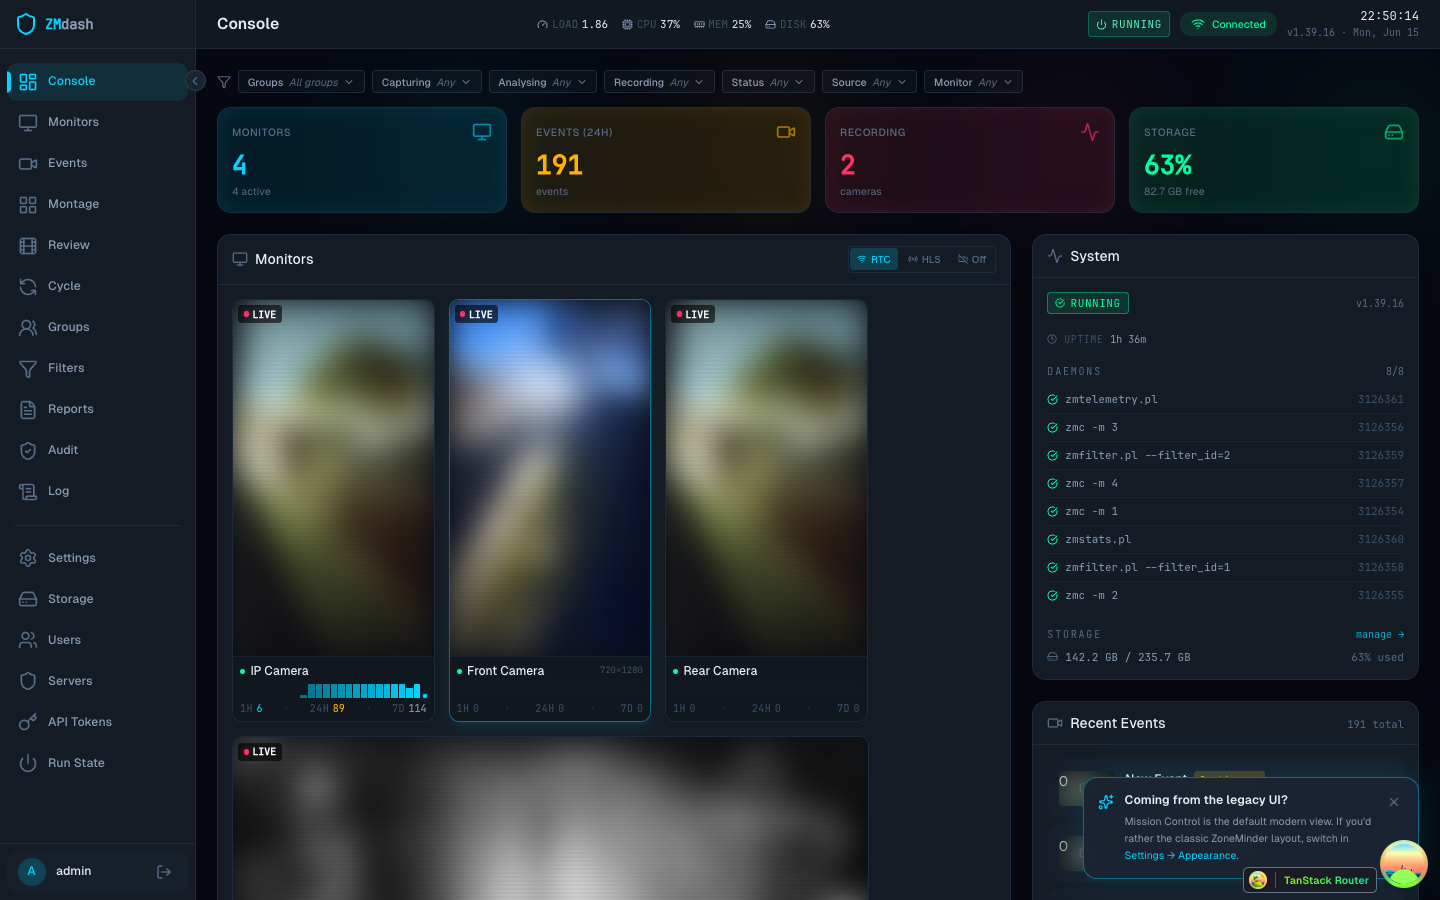
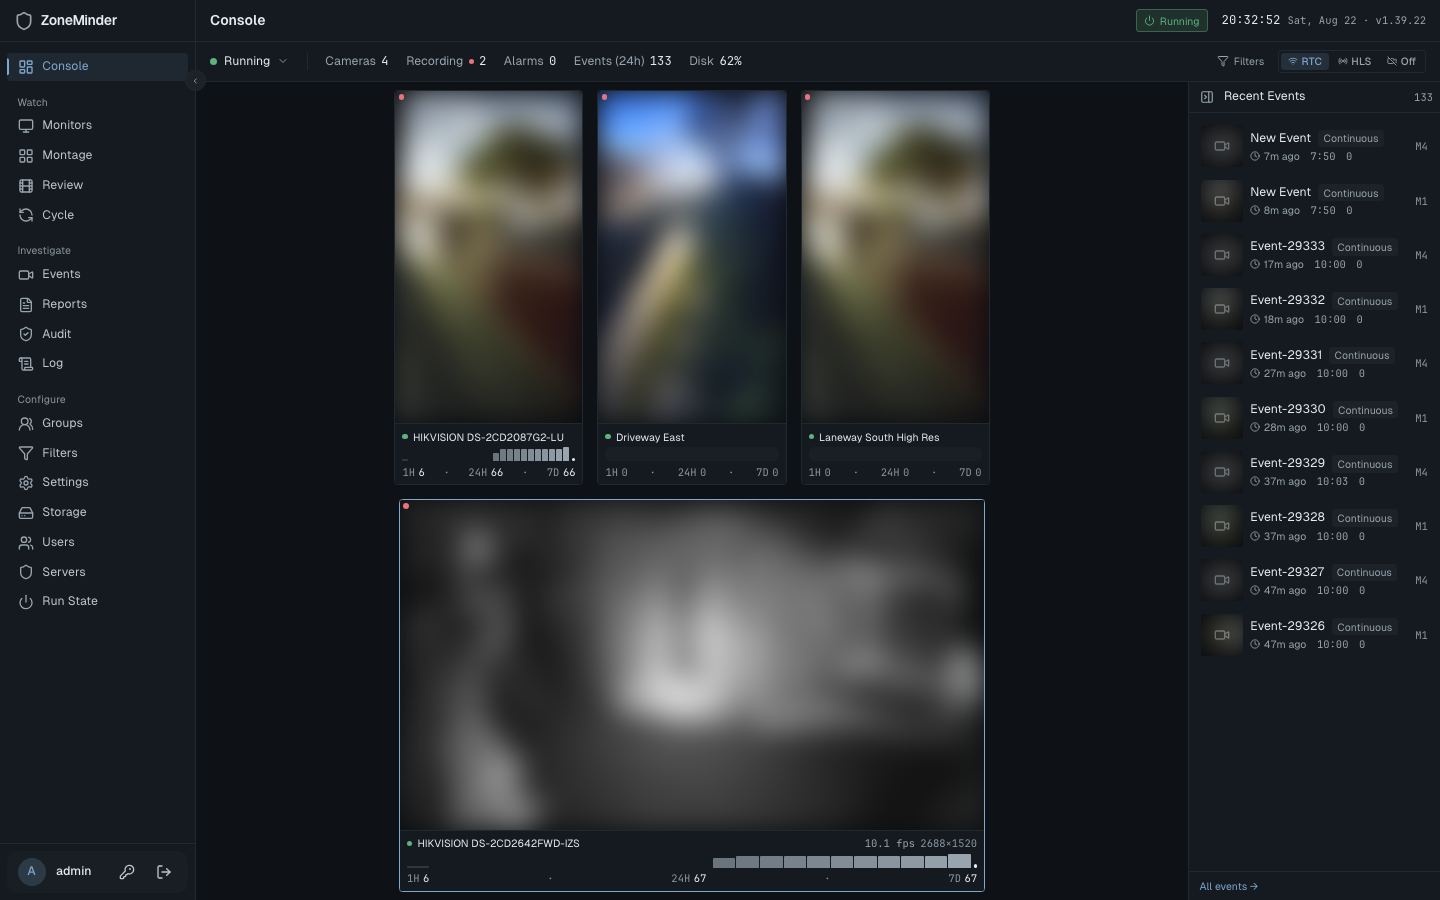
docs: recapture the screenshots, and make them reproducible
The two shots in the README were of the old UI — gradient stat cards,
cyan, the pre-redesign sidebar — and one of them had the TanStack
devtools badge and the first-login hint in frame.

Eight fresh captures against the dev box: both skins, plus events, watch,
montage, settings, the light theme and classic events, behind a
<details> so the top of the README stays two images.

`scripts/screenshots.mjs` (`npm run screenshots`) takes them. The blur
happens in the page, not afterwards — every <video> and <img> gets a CSS
filter before the shutter, so a refresh cannot forget it and event
thumbnails are covered too. It also hides the dev overlays and pauses
animations, and crops the classic pages to their content the way the
original shot was framed.

diff --git a/docs/PRODUCTION-READINESS-PLAN.md b/docs/PRODUCTION-READINESS-PLAN.md
@@ -65,10 +65,10 @@ These are verified live, not inferred. Order within the list is severity.
 |---|---|---|---|---|
 | F-1 ✅ | **Filters: edits never persist and the format is incompatible with ZoneMinder.** _Fixed 2026-08-21 (commit `fix(filters)`): legacy `terms` format round-trips byte-for-byte, actions are first-class columns, preview via `/filters/preview` where the AST allows, unreadable queries are read-only._ `updateFilter` sends `{name, query}`; the field is `query_json`. The dashboard writes `{rules:[…]}`; ZM and zm-api use `{terms:[{attr,op,val,obr,cbr,cnj}],sort_field,sort_asc,limit,skip_locked}`. Both real filters on the dev box (`PurgeWhenFull`, `Update DiskSpace`) load as "no rules". If the PUT bug is fixed naively, saving `PurgeWhenFull` writes an empty rule set with `auto_delete=1, background=1` and `zmfilter.pl` deletes every event. | `src/api/filters.ts:157-175, 206-211`; `src/routes/filters/index.tsx:64-126` | Rebuild the filter model on the backend's first-class columns (`auto_*`, `background`, `concurrent`, `lock_rows`, `execute_interval`, `user_id`) and the legacy `terms` shape for `query_json` (lossless round-trip). Delete the dashboard-private `{rules}` format and the `contains/starts/ends` operators. Until then, disable Save on any filter loaded from the backend. | M |
 | F-2 ✅ | **Add Monitor and Clone return 422.** _Fixed 2026-08-21: `normalizeMonitor()` + `toCreatePayload()`; create → clone → delete verified live. Backend side: zm-api#18, #19._ Defaults send `orientation: ROTATE_0` (schema `Rotate0`), `rtsp2_web_type: mse` (`Mse`), omit required `restream`, include unknown keys; Clone re-POSTs the GET body (`deleted: 0` where a boolean is required, raw enum casing). After those, the backend rejects ZoneMinder's own defaults (`brightness=-1`, `storage_id=0`, `max_image_buffer_count=0`). | `src/api/monitors-crud.ts:14-153, 190-200` | Add a `normalizeMonitor()` response→request mapper (also fixes the editor's Orientation / Event Close Mode selects showing the wrong value on every monitor); fix defaults; coerce on clone. Backend ticket BT-02 for canonical casing and BT-20 for the default-value validation. | S (FE) |
-| F-3 | **Zone units toggle corrupts geometry.** `convertUnits` rescales the polygon to 0–100 and saves it as `coords`; ZoneMinder stores coords in pixels regardless of `Units`. Monitor 1's only zone on the dev box is now a 0% sliver (motion detection effectively off). The editor also uses un-rotated width/height for ROTATE_90/270 cameras, so vertices get clamped and the overlay is wrong. `PUT /zones/{id}` accepts only `name`,`polygon`, so Type/Units changes are silently dropped while the form shows them editable. | `src/features/zones/ZoneEditor.tsx:110-149`; `src/routes/monitors/$monitorId_.zones.tsx:46-47` | Keep coords in pixel space always; use rotated dimensions; disable Type/Units on edit until BT-05 lands. **Done 2026-08-21:** all four dev-box zones (monitors 1–4 were all affected) rewritten to full-frame pixels in view dimensions via the API; `Units` stays `Percent` (ZoneMinder's default for the "All" zone; the API cannot change it). Code fix + test fix land with the skin migration. | S + data repair |
+| F-3 ✅ | _Fixed: `Units` only scales the threshold fields; coords stay pixels, and the overlay uses the displayed (post-rotation) frame. Pinned by `src/features/zones/zoneArea.test.ts` — "treats coords as pixels even when Units is Percent" and "overlay points are the stored pixel coords regardless of Units". The corrupted dev-box zone was repaired._ **Zone units toggle corrupted geometry.** `convertUnits` rescales the polygon to 0–100 and saves it as `coords`; ZoneMinder stores coords in pixels regardless of `Units`. Monitor 1's only zone on the dev box is now a 0% sliver (motion detection effectively off). The editor also uses un-rotated width/height for ROTATE_90/270 cameras, so vertices get clamped and the overlay is wrong. `PUT /zones/{id}` accepts only `name`,`polygon`, so Type/Units changes are silently dropped while the form shows them editable. | `src/features/zones/ZoneEditor.tsx:110-149`; `src/routes/monitors/$monitorId_.zones.tsx:46-47` | Keep coords in pixel space always; use rotated dimensions; disable Type/Units on edit until BT-05 lands. **Done 2026-08-21:** all four dev-box zones (monitors 1–4 were all affected) rewritten to full-frame pixels in view dimensions via the API; `Units` stays `Percent` (ZoneMinder's default for the "All" zone; the API cannot change it). Code fix + test fix land with the skin migration. | S + data repair |
 | F-4 ✅ | **Storage edit / Enabled toggle fail with 405.** _Fixed 2026-08-21: PATCH, errors surfaced, contract test guards the verb._ Wrapper issues PUT; the route is PATCH-only. No `onError`, so the modal just stays open. The unit test asserts the wrong verb. | `src/api/storage.ts:20-25`; `src/api/storage.test.ts:60` | PATCH; add `onError`. | S |
 | F-5 ✅ | **Secrets on screen.** _Fixed 2026-08-21: private/password configs masked, source password field masked, committed credential removed._ `ZM_AUTH_HASH_SECRET` (`private=1`) renders in clear; `title={config.value}` puts even `type=password` values in the hover tooltip; the monitor Source password is a plain text input. A real-looking admin password literal is committed in `e2e/fixtures.ts:11-12`. | `src/routes/settings/index.tsx:678`; `src/features/settings/TypedConfigInput.tsx:152-156`; `src/features/monitors/editor/fields.ts:198` | Honour `private`; drop the tooltip; mask the field; remove the fallback credential and fail fast if env is unset; document `TEST_USERNAME`/`TEST_PASSWORD` in `.env.example`. | S |
-| F-6 | **Sessions page writes junk.** `/sessions` is ZM's PHP web-session table (`access` is a Unix timestamp, `data` is serialised PHP). The page labels `access` as a permission bitmask and "Create token" inserts fabricated rows. | `src/routes/settings/sessions.tsx`; `src/api/sessions.ts` | **Done 2026-08-21: page, API wrapper, test and nav entry removed** — the REST API is sessionless; long-lived API keys are a backend feature (BT-10). | S |
+| F-6 ✅ | _Fixed: page, API wrapper, tests and nav entry removed — the REST API is sessionless._ **Sessions page wrote junk.** `/sessions` is ZM's PHP web-session table (`access` is a Unix timestamp, `data` is serialised PHP). The page labels `access` as a permission bitmask and "Create token" inserts fabricated rows. | `src/routes/settings/sessions.tsx`; `src/api/sessions.ts` | **Done 2026-08-21: page, API wrapper, test and nav entry removed** — the REST API is sessionless; long-lived API keys are a backend feature (BT-10). | S |
 | F-7 ✅ | **No deployment path.** _Fixed 2026-08-21: Dockerfile + nginx/Caddy + runtime API base + docs/DEPLOYMENT.md; image smoke-tested in CI._ No Dockerfile, no proxy sample, no `base`, API prefix is a build-time constant, nothing documents SPA fallback + `/api` proxy + WebSocket upgrade for `/api/v3/live/*/webrtc/ws`. | repo root; `vite.config.ts`; `src/api/client.ts:4` | Multi-stage Dockerfile → nginx; sample nginx and Caddy configs; `VITE_BASE` + runtime-configurable API base (`/config.json` or `window.__ENV__`); README "Production" section. | M |
 | F-8 ✅ | **No CI, lint red.** _Fixed 2026-08-21: ci.yml with blocking lint, tests + coverage thresholds, i18n check, build, audit, container smoke test; lint 0/0._ Only the CLA workflow exists; `main` has 34 lint errors / 24 warnings; CONTRIBUTING promises gates that do not run. | `.github/workflows/`; `eslint` output | `ci.yml`: `npm ci`, `tsc -b`, lint, `vitest run --coverage` (thresholds now configured), build, `npm audit --omit=dev`. Fix the 34 errors (7 `set-state-in-effect`, 8 `react-hooks/refs` in `StreamCell`, 14 `only-export-components`, 3 unused vars, 1 false-positive on Playwright `use`). | S + M |
 
@@ -76,7 +76,7 @@ These are verified live, not inferred. Order within the list is severity.
 
 | # | Problem | Where | Effort |
 |---|---|---|---|
-| F-9 | **Event timestamps display ≈10 h ahead** (zm-api stamps server-local `DATETIME` values with `Z`; logs and monitor-status are correct UTC). Knock-ons: Montage Review shows "NO EVENT" in every cell, the Events "last hour" bound disagrees with the console, the date picker defaults to the UTC date. Backend root cause (**BT-00**); FE workaround is to treat event times as server-local using a server-TZ value (BT-23) or an offset probe. | `src/routes/events/index.tsx:78-80, 667, 779-784`; `src/features/montagereview/useReviewEvents.ts` | S (FE) |
+| F-9 ✅ | _Fixed: zm-api#16 stamps UTC correctly and `useDateTimeFormat` reads `GET /system/locale` (zm-api#33) for the server's timezone and ZoneMinder's date formats._ **Event timestamps displayed ≈10 h ahead** (zm_api stamps server-local `DATETIME` values with `Z`; logs and monitor-status are correct UTC). Knock-ons: Montage Review shows "NO EVENT" in every cell, the Events "last hour" bound disagrees with the console, the date picker defaults to the UTC date. Backend root cause (**BT-00**); FE workaround is to treat event times as server-local using a server-TZ value (BT-23) or an offset probe. | `src/routes/events/index.tsx:78-80, 667, 779-784`; `src/features/montagereview/useReviewEvents.ts` | S (FE) |
 | F-10 ✅ | _Fixed (ZoneMinder scale end to end; server `>=` semantics labelled honestly; zm-api#21 for the rest)._ Logs severity labels off by one (live: `0=INF, -1=WAR, -2=ERR`; UI says `-1=ERROR, 0=WARNING, 1=INFO`) and the "Errors only / Info+ / Debug+" tiers return the wrong rows because the backend `level` is a numeric `>=` bound. Two tests enshrine the wrong map. | `src/api/logs.ts:45-64`; `src/features/logs/filter.ts:68-80`; `src/routes/logs/index.tsx:73-79` | S (+BT-04) |
 | F-11 ✅ | _Fixed: time-bounded neighbour queries, verified live._ Event detail Prev/Next only works for the oldest 100 events of a monitor (page 1, id asc, no page targeting). | `src/routes/events/$eventId.tsx:136-156` | S |
 | F-12 ✅ | _Fixed._ Reports chart sums to zero: `length` arrives as a decimal string and `Number.isFinite` rejects it. Same stale `ZmEvent.length: number` type hides it elsewhere. | `src/features/reports/bucketEventsByHour.ts:41`; `src/types/index.ts:214` | S |
@@ -87,7 +87,7 @@ These are verified live, not inferred. Order within the list is severity.
 | F-17 ✅ | _Fixed: pages through all events._ Montage Review fetches 500 events per monitor with no sort or paging; busy cameras and the 30-day window drop events silently. | `src/features/montagereview/useReviewEvents.ts:20-37` | S |
 | F-18 ✅ | _Fixed: fields disabled with reason until zm-api#23._ User edit sends `password/name/phone/perms` that `UpdateUserRequest` (`email`,`enabled`) drops; UI reports success. Disable those fields with a reason until BT-06. | `src/api/users.ts:54-68`; `src/routes/settings/users.tsx:448-455` | S |
 | F-19 ✅ | Monitor editor field types — _fixed 2026-08-21 with F-2 (bitmask select, phantom keys removed, `method` select). Backend rejects `save_jpe_gs` 2/3: zm-api#39._ | `src/features/monitors/editor/fields.ts:190-191, 237, 274, 311` | S |
-| F-20 | ~~Rotate Logs posts to `/system/log_rotate`~~ (fixed); ~~logout wrapper uses POST and is never called~~ (fixed: `GET /auth/logout` on logout); Start/Stop/Restart ZoneMinder on `/settings` and `/settings/state` still have no confirmation. | `src/api/system.ts:98-100`; `src/api/auth.ts:22-30`; `src/routes/settings/index.tsx:488-560` | S |
+| F-20 ✅ | _Fixed._ ~~Rotate Logs posts to `/system/log_rotate`~~; ~~logout wrapper uses POST and is never called~~ (`GET /auth/logout`); ~~Start/Stop/Restart have no confirmation~~ — every system action now routes through `setConfirmAction` with its own title and message, and Stop/Restart are styled as destructive. | `src/api/system.ts:98-100`; `src/api/auth.ts:22-30`; `src/routes/settings/index.tsx:488-560` | S |
 | F-21 ✅ | _Fixed: root ErrorBoundary, router error/404 inside the shell, QueryState, backend banner, no 4xx retries._ Backend-down renders as "No events found" / "No monitors configured" on 21 of 24 routes; no error boundary, no router `errorComponent`/`notFoundComponent`; `retry: 1` retries 4xx. | `src/main.tsx:15-25`; every route | M |
 | F-22 ✅ | _Fixed: viewport × foreground × budget gating (`maxLiveTiles`, default 12), live by default per decision 7._ Console opens a WebRTC session per enabled monitor by default with no viewport gating (`useInViewport` exists, only `MonitorPreview` uses it). | `src/routes/index.tsx:71`; `src/components/common/StreamCell.tsx:170-178` | M |
 | F-23 ◐ | _Referrer meta added, audit 0, devtools moved; refresh token stays in localStorage (the persistence e2e asserts it; revisit with zm-api#34)._ Both JWTs in `localStorage`; token in `?token=` on `<img>`, download links, Safari HLS and WS (lands in proxy logs and browser history); `npm audit --omit=dev` has 1 critical + 5 high (devtools declared as prod deps; `motion` unused). | `src/stores/auth.ts:160-167`; `package.json` | S now (audit fix, referrer meta, devtools→dev) / M (blob thumbnails, media tokens BT-24) |

diff --git a/README.md b/README.md
@@ -29,6 +29,42 @@ the [`zm-api`](https://github.com/SteveGilvarry/zm-api) Rust backend.*
 </tr>
 </table>
 
+<details>
+<summary><strong>More of the interface</strong> — events, watch, montage, settings, light theme, classic events</summary>
+<br />
+
+<table>
+<tr>
+<td width="50%"><img src="docs/screenshots/modern-events.png" alt="Events list: one query line, a dense sortable table, totals and pager in a status bar" /></td>
+<td width="50%"><img src="docs/screenshots/modern-watch.png" alt="Watch: the live stage with PTZ, details and recent events in a side rail" /></td>
+</tr>
+<tr>
+<td align="center">Events — the table is the page</td>
+<td align="center">Watch — stage plus rail</td>
+</tr>
+<tr>
+<td width="50%"><img src="docs/screenshots/modern-montage.png" alt="Montage: a resizable mosaic of live cells with layout and display controls on one line" /></td>
+<td width="50%"><img src="docs/screenshots/modern-settings.png" alt="Settings: appearance, system overview and the ZoneMinder configuration editor" /></td>
+</tr>
+<tr>
+<td align="center">Montage — resizable mosaic</td>
+<td align="center">Settings — configuration editor</td>
+</tr>
+<tr>
+<td width="50%"><img src="docs/screenshots/modern-light.png" alt="The same console in the light theme" /></td>
+<td width="50%"><img src="docs/screenshots/classic-events.png" alt="Classic events list with the legacy filter form and bootstrap-style table" /></td>
+</tr>
+<tr>
+<td align="center">Light theme — designed, not inverted</td>
+<td align="center">Classic events — the legacy layout</td>
+</tr>
+</table>
+
+</details>
+
+<sub>Camera images are blurred; the dev box watches a real house.
+Regenerate with <code>node scripts/screenshots.mjs</code>.</sub>
+
 </div>
 
 ---
